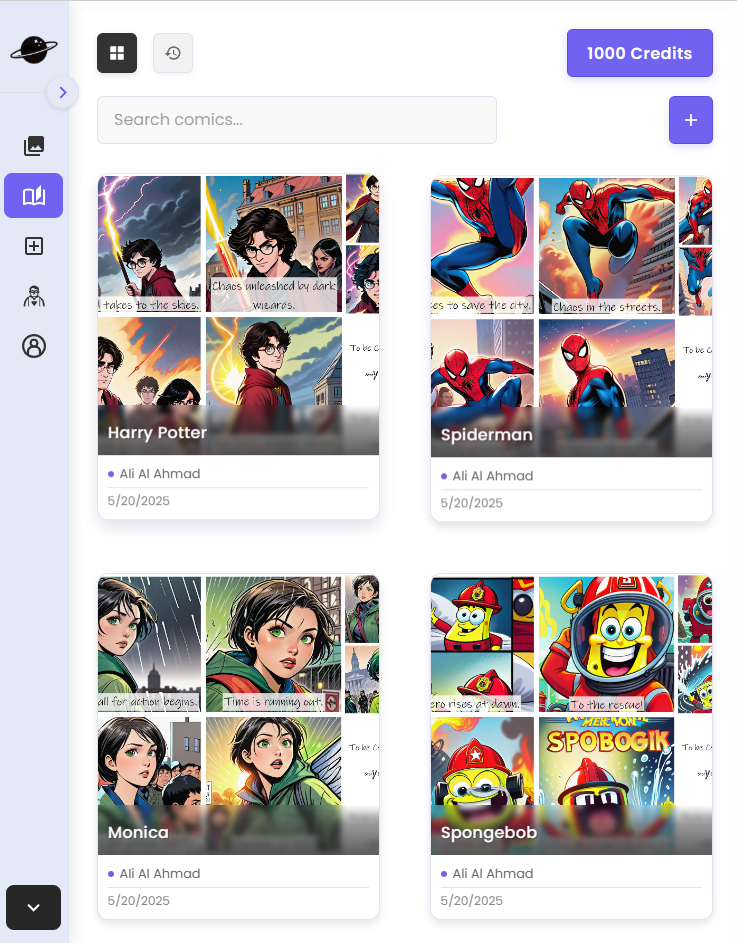
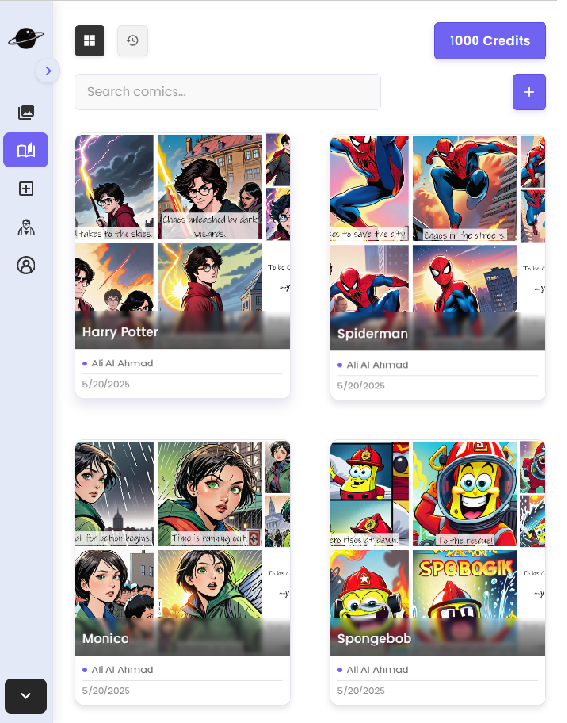
Updated README to include tablet.png and adjust layout for comic screens

diff --git a/README.md b/README.md
@@ -68,9 +68,9 @@ Download your comics in multiple formats and share them easily on social media, 
 | --------------------------------------- | ------------------------------------- |
 | ![Landing](./readme/demo/landinggif.gif) | ![fsdaf](./readme/demo/create-video.gif)|
 
-| Creat Comic Screen                    |
-| ------------------------------------- |
-| ![Landing](./readme/demo/best_reading.png) |
+| Creat Comic Screen                    |   All Comics Screen                     |
+| ------------------------------------- |------------------------------------- |
+| ![Landing](./readme/demo/best_reading.png) |![fsdaf](./readme/demo/tablet.png)|
 
 
 <br><br>
